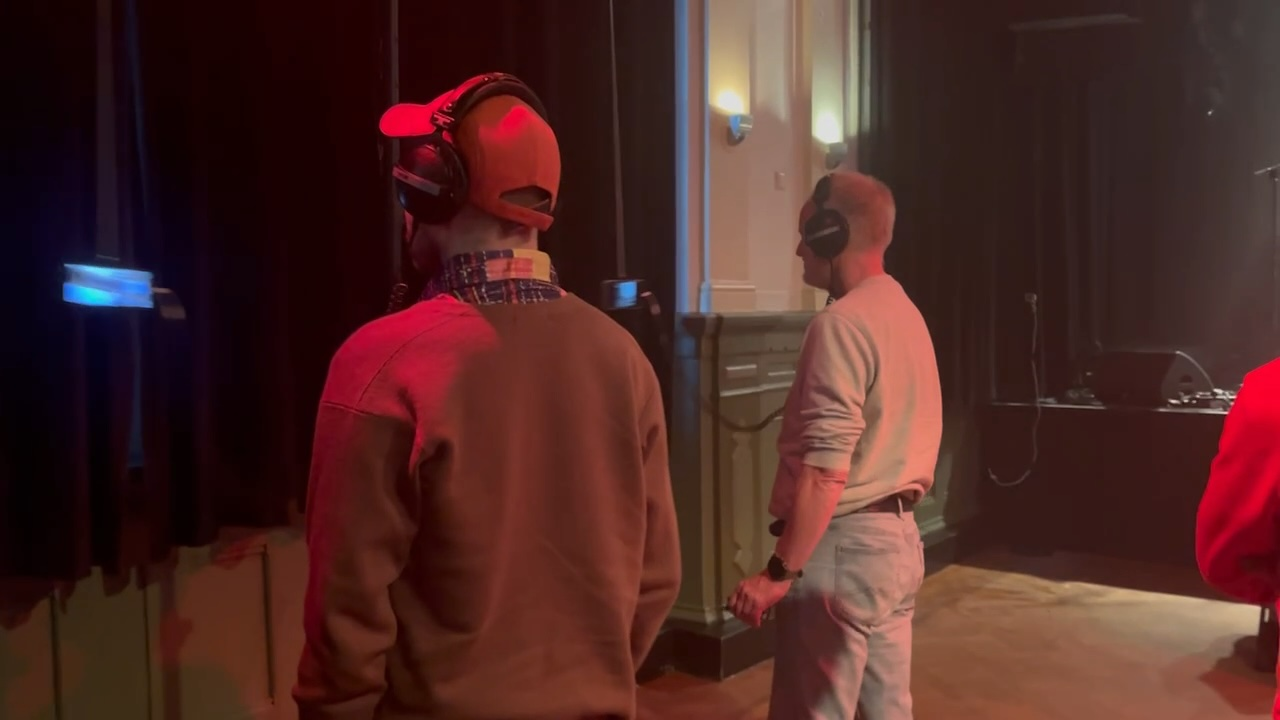
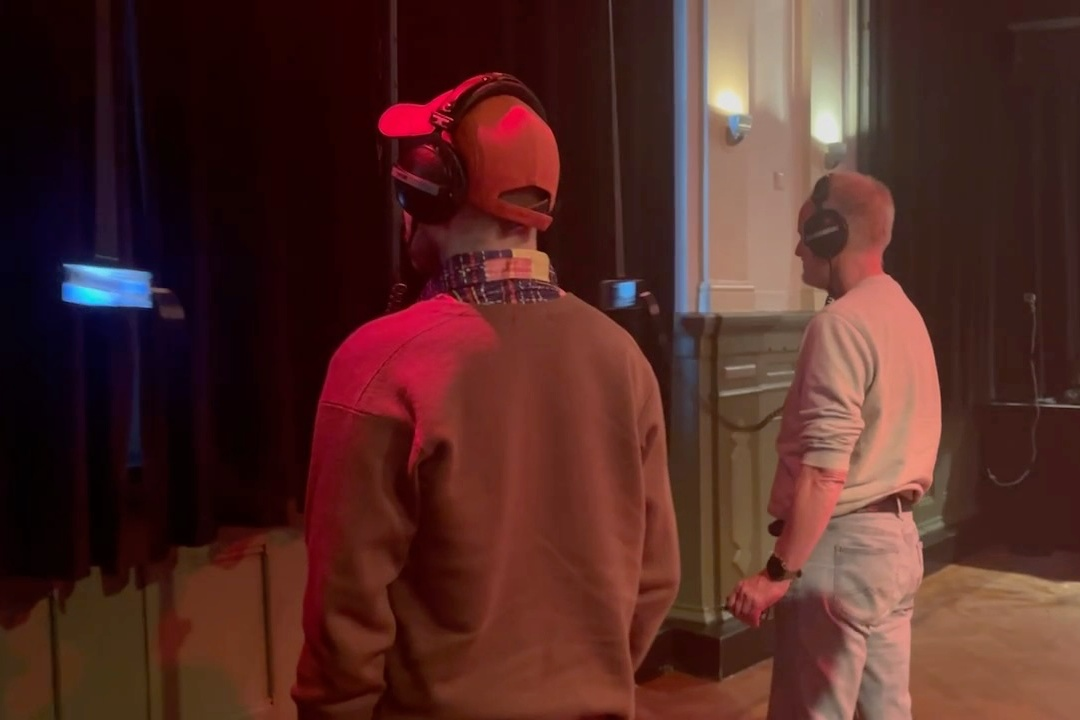
Update projects

diff --git a/_projects/hakubo.md b/_projects/hakubo.md
@@ -1,0 +1,22 @@
+---
+layout: page
+title: Hakubo I
+description: Generative algorithmic audio-visual installation in collaboration with Allard Hebbink.
+img: assets/img/hakubo/image1.jpeg
+importance: 1
+category: installation
+related_publications: false
+---
+
+In collaboration with Allard Hebbink.
+
+Hakubo is the Japanese word for twilight, the fleeting beauty of evening light. This generative algorithmic audio-visual work is a collection of highly personal relics from our lives, from Allard's sailing childhood to Sen's time living on a sub-tropical island in Japan; Ishigaki. It is a work embracing transitions, nostalgia, and the passage of time.
+
+Part of the <a href="https://error030records.bandcamp.com/">Error 030 records</a> clubnight at <a href="https://www.kabulagogo.nl/events/error030-0201">KABUL à GoGo</a>.
+
+<div class="row">
+    <div class="col-sm mt-3 mt-md-0">
+        {% include figure.liquid loading="eager" path="assets/img/hakubo/image1.jpg" title="hakubo-teatro" class="img-fluid rounded z-depth-1" %}
+    </div>
+</div>
+

diff --git a/_projects/digitalfrontier.md b/_projects/digitalfrontier.md
@@ -1,0 +1,13 @@
+---
+layout: page
+title: digitalfrontier.cc
+description: a central collection of resources (concepts, movements, and initiatives) on navigating today's digital landscape.
+img: assets/img/digitalfrontier/image1.png
+importance: 1
+category: web
+related_publications: false
+---
+
+Technology has become more integrated with our daily lives than ever. I know, it's a cliché saying, but that doesn't make it less true. How do we navigate today's world with technology in a way that is ethical, meaningful, and actually positively influences us? We've seen plenty of examples of how it negatively affects us, and there are most likely many more that you've never even heard of.
+
+[digitalfrontier.cc](digitalfrontier.cc)

diff --git a/_pages/projects.md b/_pages/projects.md
@@ -2,10 +2,10 @@
 layout: page
 title: projects
 permalink: /projects/
-description: A growing collection of your cool projects.
+description: A small selection of past projects
 nav: true
 nav_order: 3
-display_categories: [work, fun]
+display_categories: [web, installation, misc]
 horizontal: false
 ---
 

diff --git a/_projects/fpp-paradiso.md b/_projects/fpp-paradiso.md
@@ -4,7 +4,7 @@ title: FPP Paradiso - Untitled
 description: In collaboration with Joni van de Griendt. A project about the influence of mobile phones on our daily lives.
 img: assets/img/fppparadiso/img2.jpg
 importance: 2
-category: work
+category: installation
 giscus_comments: false
 ---
 

diff --git a/_projects/uncloud-dj-set.md b/_projects/uncloud-dj-set.md
@@ -1,0 +1,11 @@
+---
+layout: page
+title: Uncloud DJ Set (Stranded.fm)
+description: Amateur post-club, ambient and trance DJ set
+img: assets/img/unclouddj/image1.png
+importance: 1
+category: misc
+related_publications: false
+---
+
+[Instagram](https://www.instagram.com/p/DE43tDQoXvN)

diff --git a/_projects/ilightu2024.md b/_projects/ilightu2024.md
@@ -2,9 +2,9 @@
 layout: page
 title: I LIGHT U 2024 - Hoog Catharijne
 description: 
-img: assets/img/hoogcatharijne/stroom-2.jpg
+img: assets/img/hoogcatharijne/stroom-2b.jpg
 importance: 2
-category: work
+category: installation
 giscus_comments: false
 ---
 

diff --git a/_projects/plantcohabitation.md b/_projects/plantcohabitation.md
@@ -4,7 +4,7 @@ title: Plant Cohabitation
 description: In our daily lives, we coexist with more organisms than we realise.
 img: assets/img/plantcohabitation/img2.jpg
 importance: 1
-category: work
+category: installation
 related_publications: false
 ---
 
